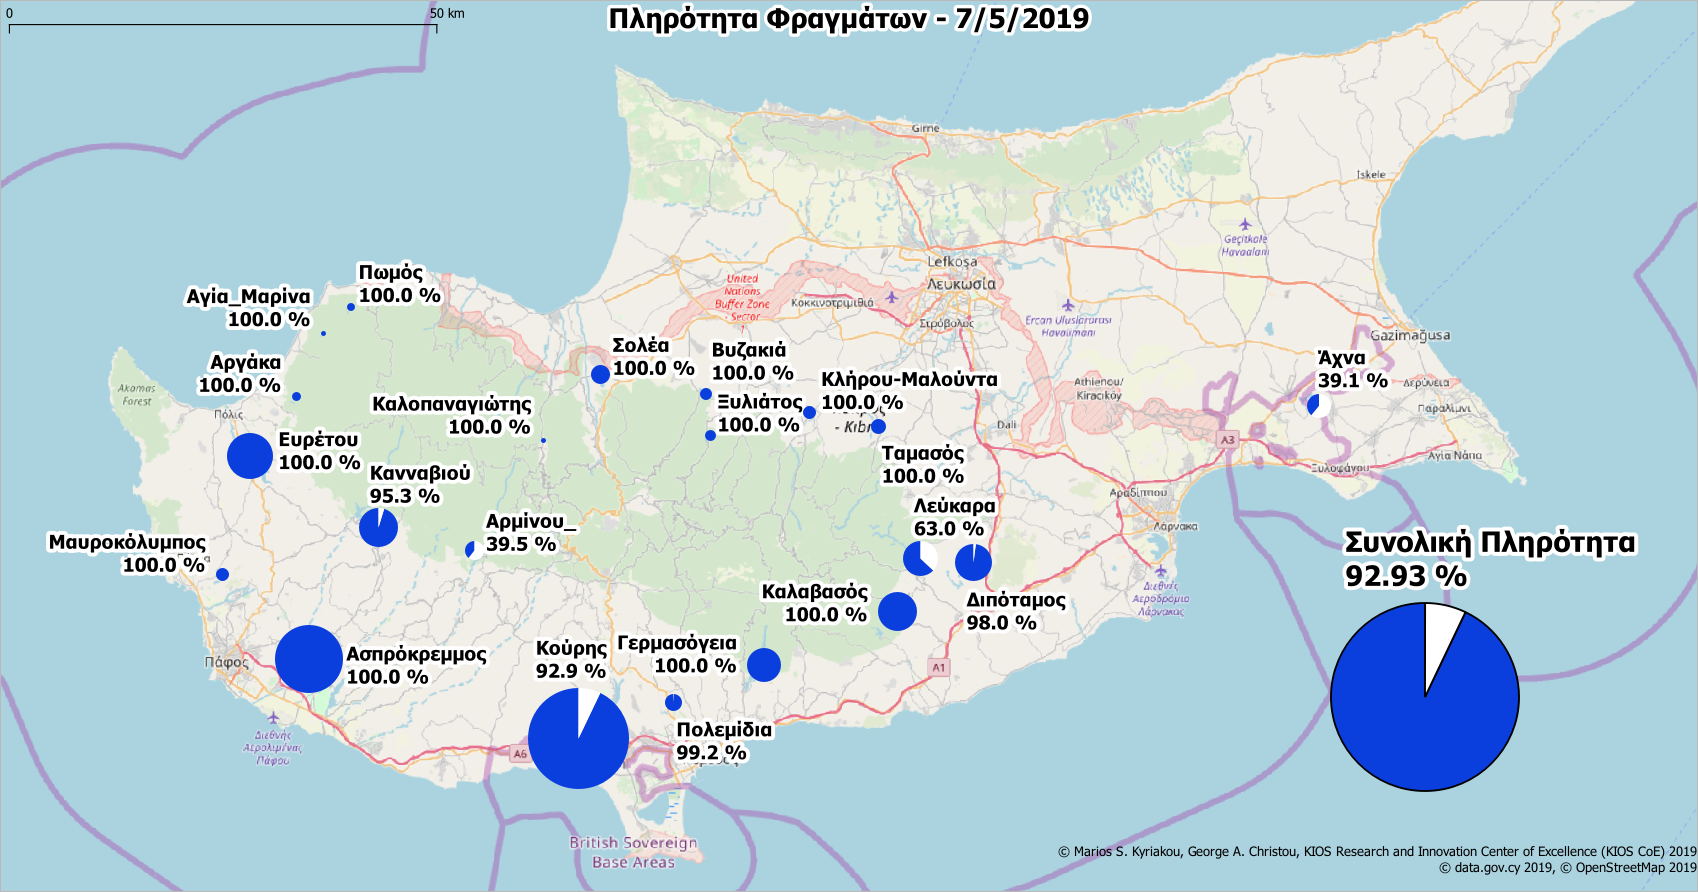
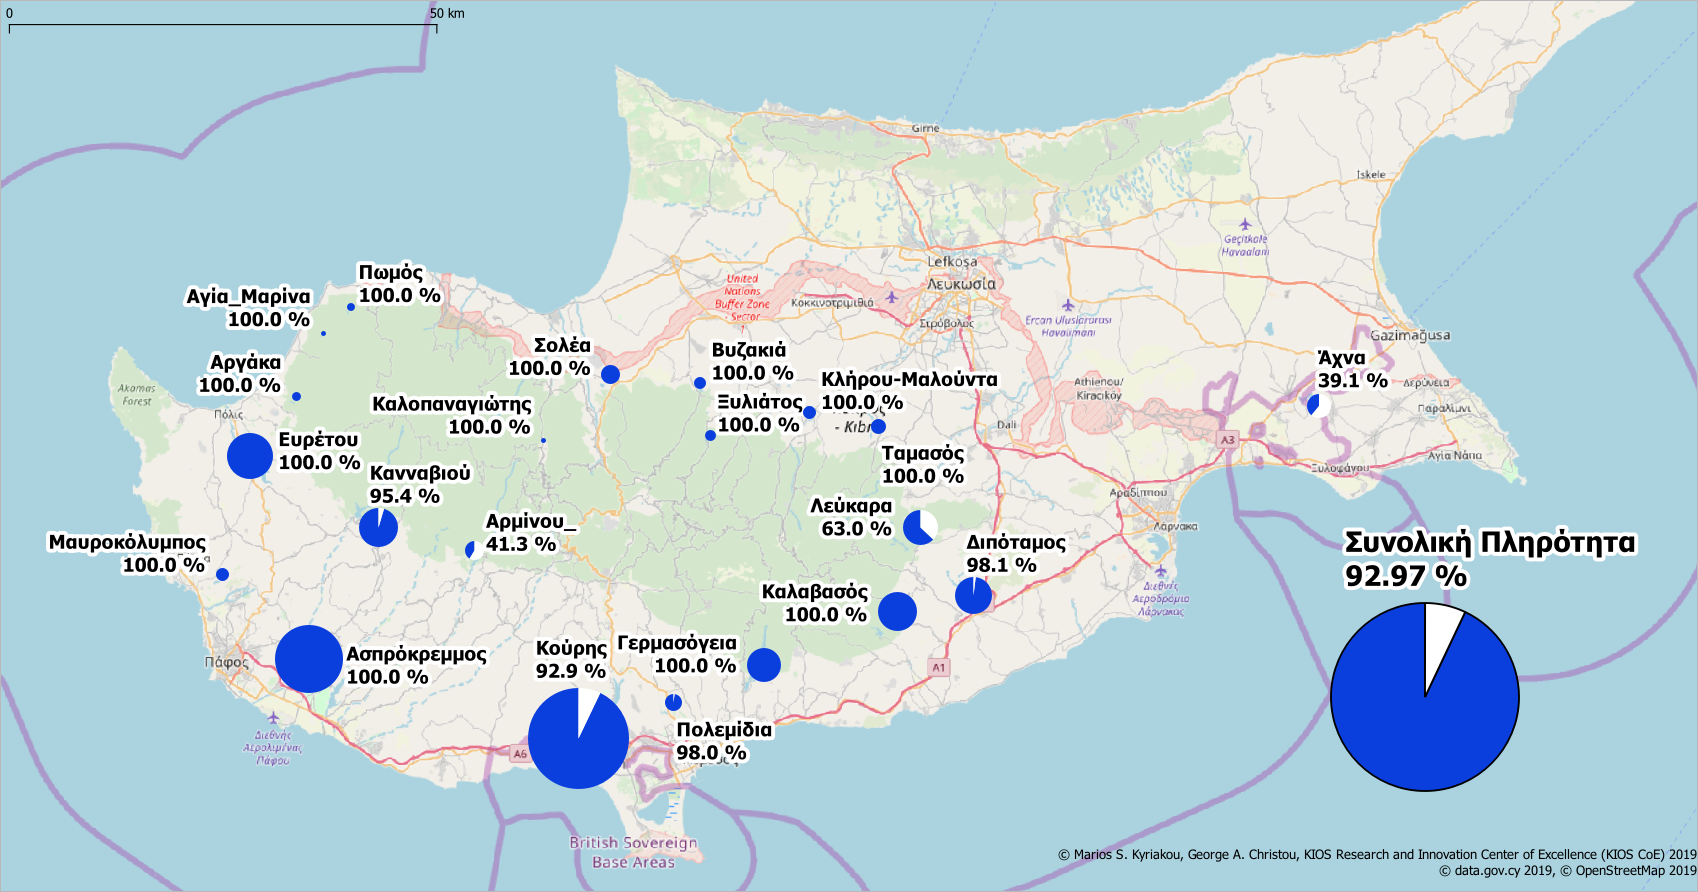
update

diff --git a/dams.html b/dams.html
@@ -11,7 +11,7 @@
          1px  1px 7px WHITE;
     }
     }
-    </style><p><b>Ημερομηνία ανανέωσης δεδομένων: 7/5/2019<p><font color="#0000FF">Η συνολική πληρότητα στα φράγματα είναι 92.93%</font>.<p>Υπάρχουν συνολικά <font color="#0000FF">14</font> φράγματα με πληρότητα <font color="#0000FF">100%</font>.<p>Υπάρχουν <font color="#0000FF">19</font> φράγματα με πληρότητα πάνω από <font color="#0000FF">50%</font>.</b><p><b>Υπάρχουν δεδομένα για 21 φράγματα. Συνολικά υπάρχουν 108 φράγματα. <b><p><p><p>* Ε.Κ.Μ. - Εκατομμύρια Kυβικά  Mέτρα.<table width="444">
+    </style><p><b>Ημερομηνία ανανέωσης δεδομένων: 8/5/2019<p><font color="#0000FF">Η συνολική πληρότητα στα φράγματα είναι 92.97%</font>.<p>Υπάρχουν συνολικά <font color="#0000FF">14</font> φράγματα με πληρότητα <font color="#0000FF">100%</font>.<p>Υπάρχουν <font color="#0000FF">19</font> φράγματα με πληρότητα πάνω από <font color="#0000FF">50%</font>.</b><p><b>Υπάρχουν δεδομένα για 21 φράγματα. Συνολικά υπάρχουν 108 φράγματα. <b><p><p><p>* Ε.Κ.Μ. - Εκατομμύρια Kυβικά  Mέτρα.<table width="444">
     <tbody>
     <tr>
     <th width="2"><b></b></th>
@@ -19,7 +19,7 @@
     <th width="60"><b>Χωρητικότητα (Ε.Κ.Μ.)</b></th>
     <th width="60"><b>Σημερινή (Ε.Κ.Μ.)</b></th>
     <th width="60"><b> Σημερινή Πληρότητα (%)</b></th>
-    </tr><tr><td bgcolor=#1A9641 class=border-white>1</td><td bgcolor=#1A9641 class=border-white>Κούρης</td><td bgcolor=#1A9641 class=border-white>115.0</td><td bgcolor=#1A9641 class=border-white>106.805</td><td bgcolor=#1A9641 class=border-white>92.9</td></tr><tr><tr><td bgcolor=#1A9641 class=border-white>2</td><td bgcolor=#1A9641 class=border-white>Ασπρόκρεμμος</td><td bgcolor=#1A9641 class=border-white>52.375</td><td bgcolor=#1A9641 class=border-white>52.375</td><td bgcolor=#1A9641 class=border-white>100.0</td></tr><tr><tr><td bgcolor=#1A9641 class=border-white>3</td><td bgcolor=#1A9641 class=border-white>Ευρέτου</td><td bgcolor=#1A9641 class=border-white>24.0</td><td bgcolor=#1A9641 class=border-white>23.989</td><td bgcolor=#1A9641 class=border-white>100.0</td></tr><tr><tr><td bgcolor=#1A9641 class=border-white>4</td><td bgcolor=#1A9641 class=border-white>Κανναβιού</td><td bgcolor=#1A9641 class=border-white>17.168</td><td bgcolor=#1A9641 class=border-white>16.361</td><td bgcolor=#1A9641 class=border-white>95.3</td></tr><tr><tr><td bgcolor=#1A9641 class=border-white>5</td><td bgcolor=#1A9641 class=border-white>Καλαβασός</td><td bgcolor=#1A9641 class=border-white>17.1</td><td bgcolor=#1A9641 class=border-white>17.1</td><td bgcolor=#1A9641 class=border-white>100.0</td></tr><tr><tr><td bgcolor=#1A9641 class=border-white>6</td><td bgcolor=#1A9641 class=border-white>Διπόταμος</td><td bgcolor=#1A9641 class=border-white>15.5</td><td bgcolor=#1A9641 class=border-white>15.19</td><td bgcolor=#1A9641 class=border-white>98.0</td></tr><tr><tr><td bgcolor=#A6D96A class=border-white>7</td><td bgcolor=#A6D96A class=border-white>Λεύκαρα</td><td bgcolor=#A6D96A class=border-white>13.85</td><td bgcolor=#A6D96A class=border-white>8.726</td><td bgcolor=#A6D96A class=border-white>63.0</td></tr><tr><tr><td bgcolor=#1A9641 class=border-white>8</td><td bgcolor=#1A9641 class=border-white>Γερμασόγεια</td><td bgcolor=#1A9641 class=border-white>13.5</td><td bgcolor=#1A9641 class=border-white>13.5</td><td bgcolor=#1A9641 class=border-white>100.0</td></tr><tr><tr><td bgcolor=#FED690 class=border-white>9</td><td bgcolor=#FED690 class=border-white>Άχνα</td><td bgcolor=#FED690 class=border-white>6.8</td><td bgcolor=#FED690 class=border-white>2.661</td><td bgcolor=#FED690 class=border-white>39.1</td></tr><tr><tr><td bgcolor=#1A9641 class=border-white>10</td><td bgcolor=#1A9641 class=border-white>Σολέα</td><td bgcolor=#1A9641 class=border-white>4.454</td><td bgcolor=#1A9641 class=border-white>4.454</td><td bgcolor=#1A9641 class=border-white>100.0</td></tr><tr><tr><td bgcolor=#FED690 class=border-white>11</td><td bgcolor=#FED690 class=border-white>Αρμίνου_</td><td bgcolor=#FED690 class=border-white>4.3</td><td bgcolor=#FED690 class=border-white>1.698</td><td bgcolor=#FED690 class=border-white>39.5</td></tr><tr><tr><td bgcolor=#1A9641 class=border-white>12</td><td bgcolor=#1A9641 class=border-white>Πολεμίδια</td><td bgcolor=#1A9641 class=border-white>3.4</td><td bgcolor=#1A9641 class=border-white>3.372</td><td bgcolor=#1A9641 class=border-white>99.2</td></tr><tr><tr><td bgcolor=#1A9641 class=border-white>13</td><td bgcolor=#1A9641 class=border-white>Ταμασός</td><td bgcolor=#1A9641 class=border-white>2.8</td><td bgcolor=#1A9641 class=border-white>2.8</td><td bgcolor=#1A9641 class=border-white>100.0</td></tr><tr><tr><td bgcolor=#1A9641 class=border-white>14</td><td bgcolor=#1A9641 class=border-white>Μαυροκόλυμπος</td><td bgcolor=#1A9641 class=border-white>2.18</td><td bgcolor=#1A9641 class=border-white>2.18</td><td bgcolor=#1A9641 class=border-white>100.0</td></tr><tr><tr><td bgcolor=#1A9641 class=border-white>15</td><td bgcolor=#1A9641 class=border-white>Κλήρου-Μαλούντα</td><td bgcolor=#1A9641 class=border-white>2.0</td><td bgcolor=#1A9641 class=border-white>2.0</td><td bgcolor=#1A9641 class=border-white>100.0</td></tr><tr><tr><td bgcolor=#1A9641 class=border-white>16</td><td bgcolor=#1A9641 class=border-white>Βυζακιά</td><td bgcolor=#1A9641 class=border-white>1.69</td><td bgcolor=#1A9641 class=border-white>1.69</td><td bgcolor=#1A9641 class=border-white>100.0</td></tr><tr><tr><td bgcolor=#1A9641 class=border-white>17</td><td bgcolor=#1A9641 class=border-white>Ξυλιάτος</td><td bgcolor=#1A9641 class=border-white>1.43</td><td bgcolor=#1A9641 class=border-white>1.43</td><td bgcolor=#1A9641 class=border-white>100.0</td></tr><tr><tr><td bgcolor=#1A9641 class=border-white>18</td><td bgcolor=#1A9641 class=border-white>Αργάκα</td><td bgcolor=#1A9641 class=border-white>0.99</td><td bgcolor=#1A9641 class=border-white>0.99</td><td bgcolor=#1A9641 class=border-white>100.0</td></tr><tr><tr><td bgcolor=#1A9641 class=border-white>19</td><td bgcolor=#1A9641 class=border-white>Πωμός</td><td bgcolor=#1A9641 class=border-white>0.86</td><td bgcolor=#1A9641 class=border-white>0.86</td><td bgcolor=#1A9641 class=border-white>100.0</td></tr><tr><tr><td bgcolor=#1A9641 class=border-white>20</td><td bgcolor=#1A9641 class=border-white>Καλοπαναγιώτης</td><td bgcolor=#1A9641 class=border-white>0.363</td><td bgcolor=#1A9641 class=border-white>0.363</td><td bgcolor=#1A9641 class=border-white>100.0</td></tr><tr><tr><td bgcolor=#1A9641 class=border-white>21</td><td bgcolor=#1A9641 class=border-white>Αγία_Μαρίνα</td><td bgcolor=#1A9641 class=border-white>0.298</td><td bgcolor=#1A9641 class=border-white>0.298</td><td bgcolor=#1A9641 class=border-white>100.0</td></tr><tr>
+    </tr><tr><td bgcolor=#1A9641 class=border-white>1</td><td bgcolor=#1A9641 class=border-white>Κούρης</td><td bgcolor=#1A9641 class=border-white>115.0</td><td bgcolor=#1A9641 class=border-white>106.869</td><td bgcolor=#1A9641 class=border-white>92.9</td></tr><tr><tr><td bgcolor=#1A9641 class=border-white>2</td><td bgcolor=#1A9641 class=border-white>Ασπρόκρεμμος</td><td bgcolor=#1A9641 class=border-white>52.375</td><td bgcolor=#1A9641 class=border-white>52.375</td><td bgcolor=#1A9641 class=border-white>100.0</td></tr><tr><tr><td bgcolor=#1A9641 class=border-white>3</td><td bgcolor=#1A9641 class=border-white>Ευρέτου</td><td bgcolor=#1A9641 class=border-white>24.0</td><td bgcolor=#1A9641 class=border-white>23.989</td><td bgcolor=#1A9641 class=border-white>100.0</td></tr><tr><tr><td bgcolor=#1A9641 class=border-white>4</td><td bgcolor=#1A9641 class=border-white>Κανναβιού</td><td bgcolor=#1A9641 class=border-white>17.168</td><td bgcolor=#1A9641 class=border-white>16.371</td><td bgcolor=#1A9641 class=border-white>95.4</td></tr><tr><tr><td bgcolor=#1A9641 class=border-white>5</td><td bgcolor=#1A9641 class=border-white>Καλαβασός</td><td bgcolor=#1A9641 class=border-white>17.1</td><td bgcolor=#1A9641 class=border-white>17.1</td><td bgcolor=#1A9641 class=border-white>100.0</td></tr><tr><tr><td bgcolor=#1A9641 class=border-white>6</td><td bgcolor=#1A9641 class=border-white>Διπόταμος</td><td bgcolor=#1A9641 class=border-white>15.5</td><td bgcolor=#1A9641 class=border-white>15.2</td><td bgcolor=#1A9641 class=border-white>98.1</td></tr><tr><tr><td bgcolor=#A6D96A class=border-white>7</td><td bgcolor=#A6D96A class=border-white>Λεύκαρα</td><td bgcolor=#A6D96A class=border-white>13.85</td><td bgcolor=#A6D96A class=border-white>8.73</td><td bgcolor=#A6D96A class=border-white>63.0</td></tr><tr><tr><td bgcolor=#1A9641 class=border-white>8</td><td bgcolor=#1A9641 class=border-white>Γερμασόγεια</td><td bgcolor=#1A9641 class=border-white>13.5</td><td bgcolor=#1A9641 class=border-white>13.5</td><td bgcolor=#1A9641 class=border-white>100.0</td></tr><tr><tr><td bgcolor=#FED690 class=border-white>9</td><td bgcolor=#FED690 class=border-white>Άχνα</td><td bgcolor=#FED690 class=border-white>6.8</td><td bgcolor=#FED690 class=border-white>2.661</td><td bgcolor=#FED690 class=border-white>39.1</td></tr><tr><tr><td bgcolor=#1A9641 class=border-white>10</td><td bgcolor=#1A9641 class=border-white>Σολέα</td><td bgcolor=#1A9641 class=border-white>4.454</td><td bgcolor=#1A9641 class=border-white>4.454</td><td bgcolor=#1A9641 class=border-white>100.0</td></tr><tr><tr><td bgcolor=#FFFFC0 class=border-white>11</td><td bgcolor=#FFFFC0 class=border-white>Αρμίνου_</td><td bgcolor=#FFFFC0 class=border-white>4.3</td><td bgcolor=#FFFFC0 class=border-white>1.777</td><td bgcolor=#FFFFC0 class=border-white>41.3</td></tr><tr><tr><td bgcolor=#1A9641 class=border-white>12</td><td bgcolor=#1A9641 class=border-white>Πολεμίδια</td><td bgcolor=#1A9641 class=border-white>3.4</td><td bgcolor=#1A9641 class=border-white>3.332</td><td bgcolor=#1A9641 class=border-white>98.0</td></tr><tr><tr><td bgcolor=#1A9641 class=border-white>13</td><td bgcolor=#1A9641 class=border-white>Ταμασός</td><td bgcolor=#1A9641 class=border-white>2.8</td><td bgcolor=#1A9641 class=border-white>2.8</td><td bgcolor=#1A9641 class=border-white>100.0</td></tr><tr><tr><td bgcolor=#1A9641 class=border-white>14</td><td bgcolor=#1A9641 class=border-white>Μαυροκόλυμπος</td><td bgcolor=#1A9641 class=border-white>2.18</td><td bgcolor=#1A9641 class=border-white>2.18</td><td bgcolor=#1A9641 class=border-white>100.0</td></tr><tr><tr><td bgcolor=#1A9641 class=border-white>15</td><td bgcolor=#1A9641 class=border-white>Κλήρου-Μαλούντα</td><td bgcolor=#1A9641 class=border-white>2.0</td><td bgcolor=#1A9641 class=border-white>2.0</td><td bgcolor=#1A9641 class=border-white>100.0</td></tr><tr><tr><td bgcolor=#1A9641 class=border-white>16</td><td bgcolor=#1A9641 class=border-white>Βυζακιά</td><td bgcolor=#1A9641 class=border-white>1.69</td><td bgcolor=#1A9641 class=border-white>1.69</td><td bgcolor=#1A9641 class=border-white>100.0</td></tr><tr><tr><td bgcolor=#1A9641 class=border-white>17</td><td bgcolor=#1A9641 class=border-white>Ξυλιάτος</td><td bgcolor=#1A9641 class=border-white>1.43</td><td bgcolor=#1A9641 class=border-white>1.43</td><td bgcolor=#1A9641 class=border-white>100.0</td></tr><tr><tr><td bgcolor=#1A9641 class=border-white>18</td><td bgcolor=#1A9641 class=border-white>Αργάκα</td><td bgcolor=#1A9641 class=border-white>0.99</td><td bgcolor=#1A9641 class=border-white>0.99</td><td bgcolor=#1A9641 class=border-white>100.0</td></tr><tr><tr><td bgcolor=#1A9641 class=border-white>19</td><td bgcolor=#1A9641 class=border-white>Πωμός</td><td bgcolor=#1A9641 class=border-white>0.86</td><td bgcolor=#1A9641 class=border-white>0.86</td><td bgcolor=#1A9641 class=border-white>100.0</td></tr><tr><tr><td bgcolor=#1A9641 class=border-white>20</td><td bgcolor=#1A9641 class=border-white>Καλοπαναγιώτης</td><td bgcolor=#1A9641 class=border-white>0.363</td><td bgcolor=#1A9641 class=border-white>0.363</td><td bgcolor=#1A9641 class=border-white>100.0</td></tr><tr><tr><td bgcolor=#1A9641 class=border-white>21</td><td bgcolor=#1A9641 class=border-white>Αγία_Μαρίνα</td><td bgcolor=#1A9641 class=border-white>0.298</td><td bgcolor=#1A9641 class=border-white>0.298</td><td bgcolor=#1A9641 class=border-white>100.0</td></tr><tr>
     </tr>
     <tr>
     <td></td>
